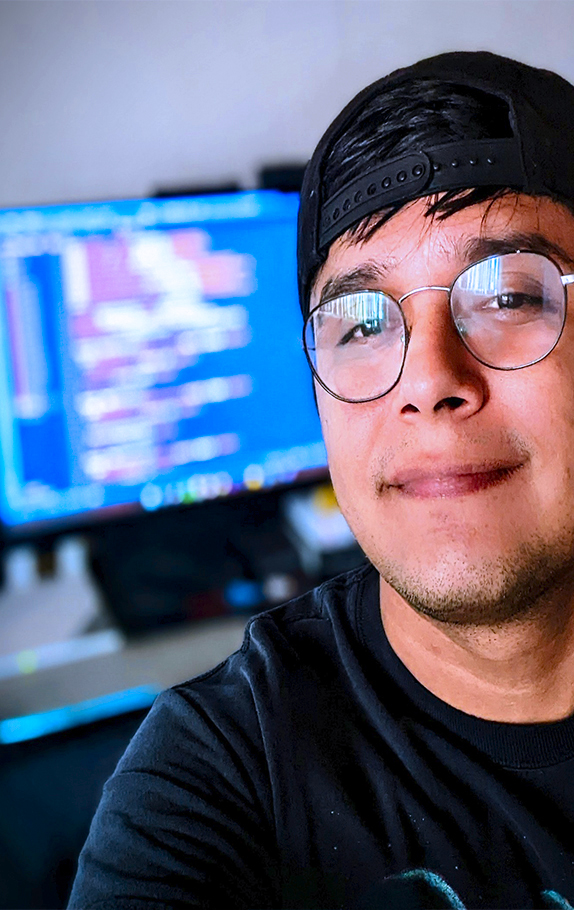
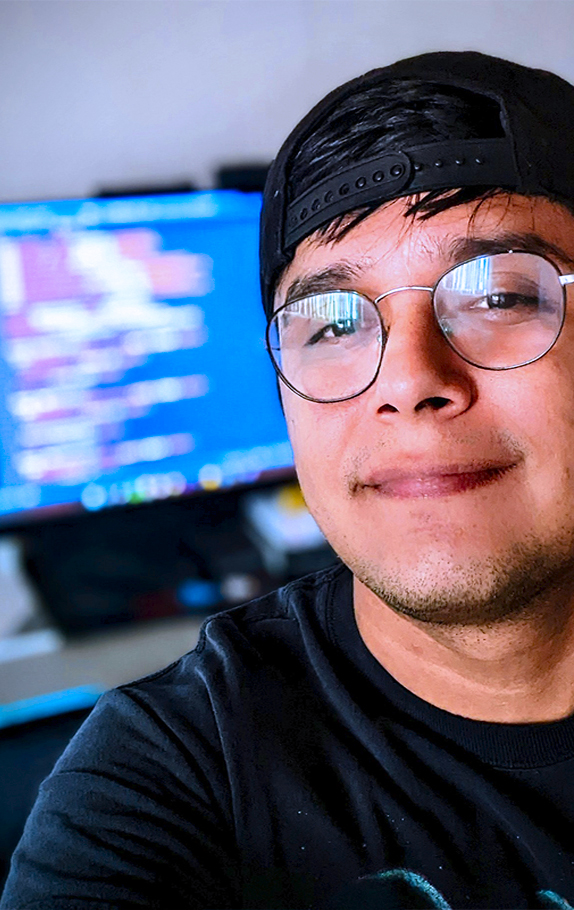
more changes in css

diff --git a/src/components/testimonials/Testimonials.jsx b/src/components/testimonials/Testimonials.jsx
@@ -20,22 +20,22 @@ const data = [
   {
     avatar: AVTR1,
     name: 'Victor Contreras - Web Sec',
-    review: 'Modi alias animi dolorem aliquam ea eum beatae maiores, consectetur praesentium quibusdam, commodi velit porro blanditiis consequatur qui molestiae. Dolorem, perspiciatis aspernatur labore distinctio ratione delectus voluptatem dolores deserunt explicabo nostrum ducimus quasi?'
+    review: 'Great person, inside and outside the professional field. Someone you can trust to solve any obstacle. Highly recommended.'
   },
   {
     avatar: AVTR2,
     name: 'Guztavo Mazatan - Product Manager',
-    review: 'Modi alias animi dolorem aliquam ea eum beatae maiores, consectetur praesentium quibusdam, commodi velit porro blanditiis consequatur qui molestiae. Dolorem, perspiciatis aspernatur labore distinctio ratione delectus voluptatem dolores deserunt explicabo nostrum ducimus quasi?'
+    review: 'From the start of the project, through to completion, Hector supported us and exceeded our expectations in every way. Not only was our experience personal and friendly, his ability to identify and present our key messages in an imaginative and creative way gave us a huge amount of confidence in him. In many ways Hector understood our clients website needs better than we did and he complimented our vision perfectly. He is reliable, professional and easy to work with. I can’t recommend him highly enough and we look forward to continuing our working relationship together.'
   },
   {
     avatar: AVTR3,
     name: 'Christopher Arteaga - Web Dev',
-    review: 'Modi alias animi dolorem aliquam ea eum beatae maiores, consectetur praesentium quibusdam, commodi velit porro blanditiis consequatur qui molestiae. Dolorem, perspiciatis aspernatur labore distinctio ratione delectus voluptatem dolores deserunt explicabo nostrum ducimus quasi?'
+    review: 'Hector is a great help managing a very out of date website. Everything we ask him to do is done quickly and efficiently, we would be lost without him.'
   },
   {
     avatar: AVTR4,
     name: 'Nelson Gonzalez - Dev Ops',
-    review: 'Modi alias animi dolorem aliquam ea eum beatae maiores, consectetur praesentium quibusdam, commodi velit porro blanditiis consequatur qui molestiae. Dolorem, perspiciatis aspernatur labore distinctio ratione delectus voluptatem dolores deserunt explicabo nostrum ducimus quasi?'
+    review: 'Hector is awesome, delivers exactly what you want and is a great guy as well, thanks for all your hard work on my website'
   },
 ]
 

diff --git a/src/components/header/header.css b/src/components/header/header.css
@@ -1,7 +1,8 @@
 header {
-  height: 100vh;
-  padding-top: 7rem;
+  height: 130vh;
+  padding-top: 15rem;
   overflow: hidden;
+  
 }
 
 .header__container {
@@ -25,8 +26,8 @@ header {
   align-items: center;
   gap: 0.8rem;
   position: absolute;
-  left: 0;
-  bottom: 5rem;
+  left: 2.5rem;
+  bottom: 19rem;
 }
 
 .header__socials::after {
@@ -38,26 +39,27 @@ header {
 
 /* =============== ME ============== */
 .me {
-  background: linear-gradient(var(--color-primary), transparent);
-  height: 60%;
+  padding-top: 5rem;
+  /* background: linear-gradient(var(--color-primary), transparent); */
+  height: 70%;
   position: relative;
   left: 50%;
   transform: translateX(-50%);
-  margin-top: 4rem;
-  border-radius: 4rem 4rem;
+  border-radius: 40%;
   overflow: hidden;
-  width: 94%;
-  max-width: 20rem;
+  width: 80%;
+  max-width: 25rem;
   margin-top: 2.5rem;
   justify-content: center;
+
   /* padding: 5rem 1.5rem 1.5rem 1.5rem; */
 }
 
 /* =============== SCROLL DOWN ============== */
 .scroll__down {
   position: absolute;
-  right: -2.3rem;
-  bottom: 5rem;
+  right: -1.5rem;
+  bottom: 25rem;
   transform: rotate(90deg);
   font-weight: 300;
   font-size: 0.9rem;
@@ -83,17 +85,4 @@ header {
     display: none;
   }
 
-  /* added after tutorial */
-  .me {
-    width: 94%;
-    max-width: 20rem;
-    margin-top: 2.5rem;
-    justify-content: center;
-  }
-
-  /* added after tutorial */
-  .cta {
-    margin-top: 1.7rem;
-    gap: 1rem;
-  }
 }

diff --git a/src/components/header/Header.jsx b/src/components/header/Header.jsx
@@ -1,7 +1,7 @@
 import React from 'react'
 import './header.css'
 import CTA from './CTA'
-import ME from '../../assets/me.jpg'
+import ME from '../../assets/calis.png'
 import HeaderSocial from './HeaderSocials'
 
 const Header = () => {
@@ -13,7 +13,6 @@ const Header = () => {
         <h5 className="text-light">Frontend React Developer / Telematic Engineer </h5>
         <CTA />
         <HeaderSocial />
-
         <div className="me">
           <img src={ME} alt="me" />
         </div>
